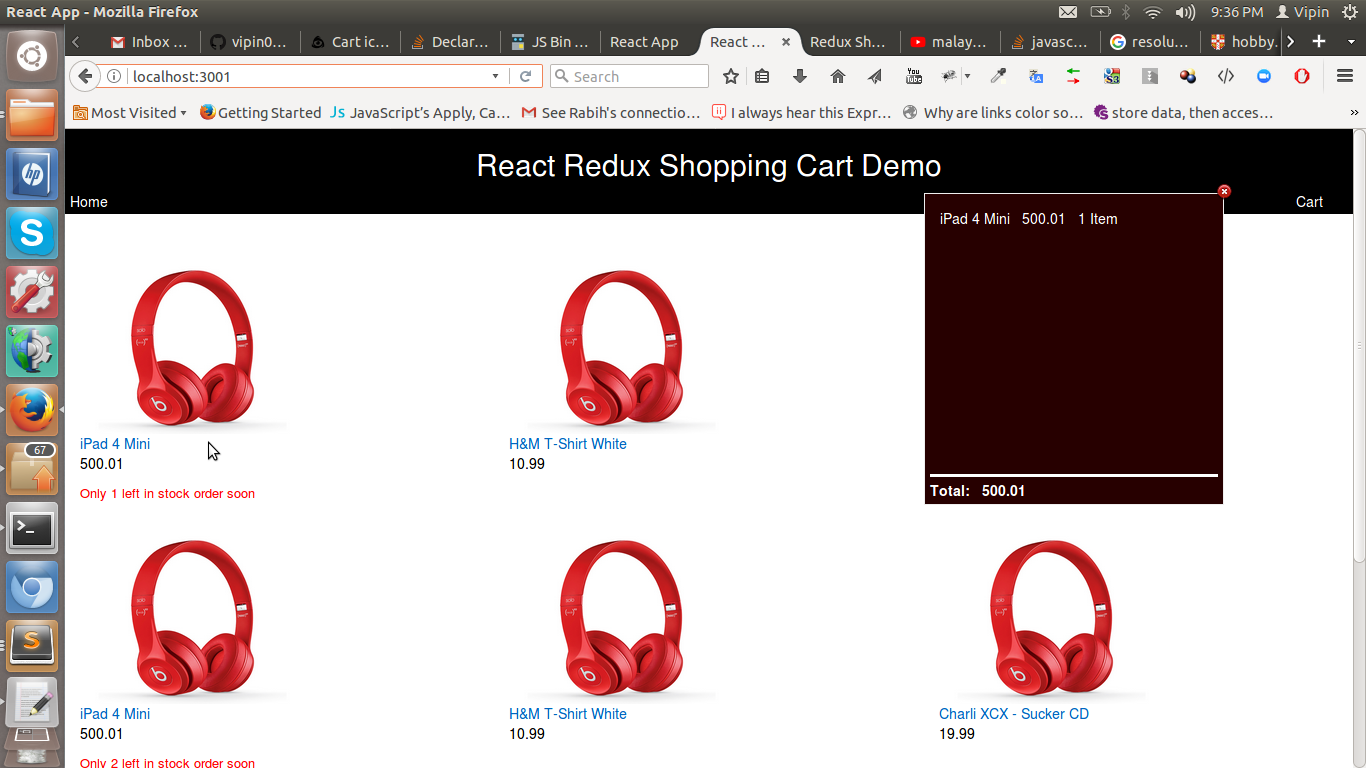
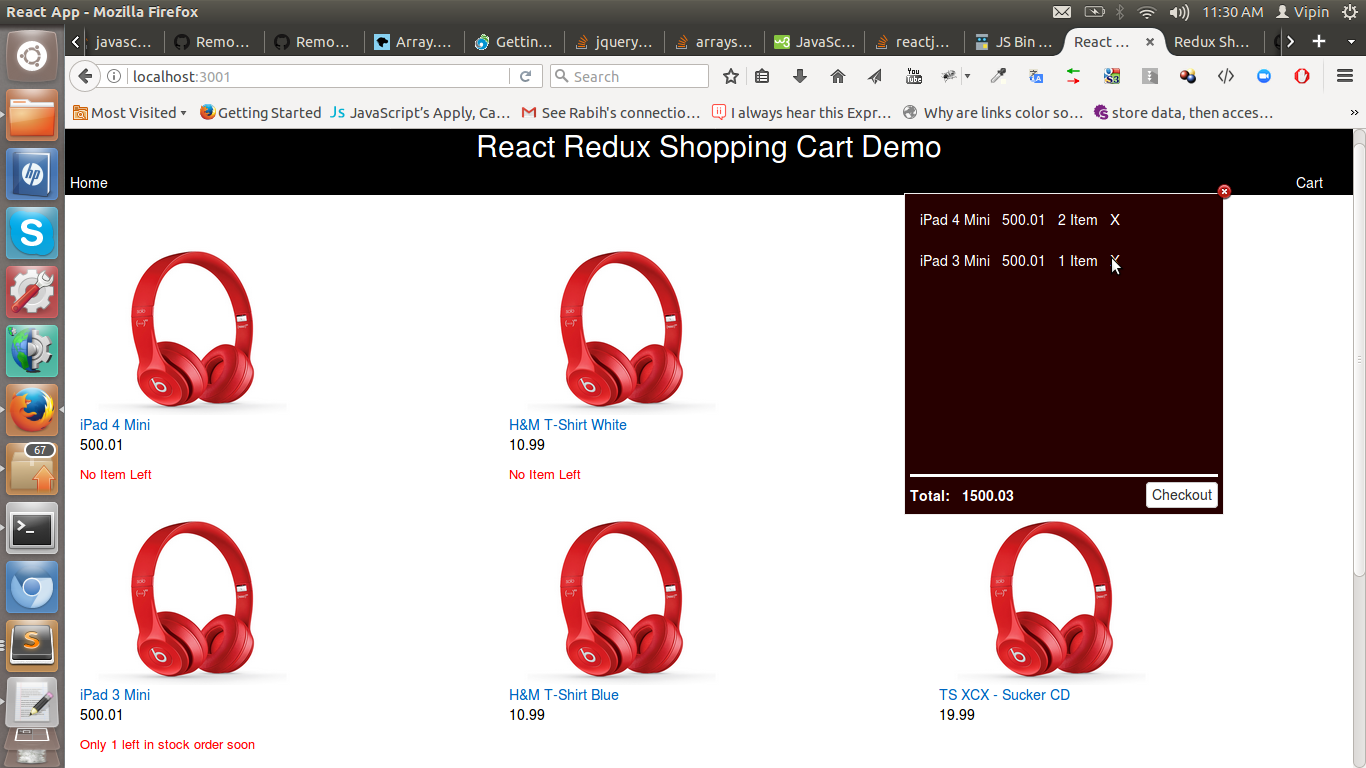
CHANGE: Added checkout button on the cart dialog

diff --git a/src/containers/CartContainer.js b/src/containers/CartContainer.js
@@ -3,13 +3,13 @@ import { connect } from 'react-redux';
 import { withRouter } from "react-router-dom";
 
 import { getCartDetails, getCartPrice } from '../reducers';
-import { closeCart, removeFromCart } from '../action';
+import { closeCart, removeFromCart, checkout } from '../action';
 import Cart from '../components/Cart';
 
-const CartContainer = ({ cart, total, dialogBoxStatus, closeCart, removeFromCart }) => (
+const CartContainer = ({ cart, total, dialogBoxStatus, closeCart, removeFromCart, checkout }) => (
 	<div>
 	<Cart props={cart} total={total} isDialogOpen={dialogBoxStatus} close={()=>closeCart()} 
-	removeFromCart={removeFromCart}/>
+	removeFromCart={removeFromCart} onCheckout={()=>checkout(cart)}/>
 	</div>
 )
 
@@ -19,4 +19,4 @@ const mapStateToProps = (state) => ({
 	dialogBoxStatus: state.cart.dialogBoxStatus
 })
 
-export default connect(mapStateToProps, { closeCart, removeFromCart })(CartContainer)
+export default connect(mapStateToProps, { closeCart, removeFromCart, checkout })(CartContainer)

diff --git a/src/components/Cart.js b/src/components/Cart.js
@@ -1,6 +1,6 @@
 import React from 'react';
 
-const Cart = ({props, total, isDialogOpen, close, removeFromCart}) => {
+const Cart = ({props, total, isDialogOpen, close, removeFromCart, onCheckout}) => {
 	//const 
 	const data = props.length > 0 ? (	
 		<div>
@@ -12,7 +12,13 @@ const Cart = ({props, total, isDialogOpen, close, removeFromCart}) => {
 		))
 		}
 		</div>
-		<div className="cart-total">Total: &nbsp; {total}{isDialogOpen}</div>
+		<div className="cart-footer">
+		<div className="cart-total"> 
+		Total: &nbsp; {total}{isDialogOpen}
+		</div>
+		<div className="cart-checkout">
+		&nbsp;&nbsp;<button className="btn btn-default checkout-btn" onClick={onCheckout}>Checkout</button></div>
+		</div>
 		</div>): (<div>Your cart is empty</div>)
 	
 		return (

diff --git a/src/App.css b/src/App.css
@@ -92,9 +92,9 @@
 /**End here ***/
 
 .cart{
-  width:300px;
+  width:320px;
   padding:5px;
-  height: 312px;
+  height: 322px;
   background:#270000;
   color:#fff;
   position:fixed;
@@ -113,15 +113,29 @@
   overflow-y:auto;
 }
 
-.cart-total{
+.cart-footer{
   font-weight:bold;
   border-top:solid;
   padding-top: 5px;
 }
 
+.cart-total{
+  float:left;
+  margin-top:5px;
+}
+
+.cart-checkout{
+  float:right;
+  margin-left:10px;
+}
+
 .cart-item-remove{
   cursor:pointer;
   font-size: 15px;
+}
+
+.checkout-btn{
+  padding: 2px 5px;
 }
 
 .close-icon{

diff --git a/src/action/index.js b/src/action/index.js
@@ -13,7 +13,6 @@ export const fetchAllProducts = () => dispatch =>{
 }
 
 export const selectProduct = product => {
-	console.log("tset");
 	return {
 		type: 'GET_PRODUCT_BY_ID',
 		payload:product
@@ -48,9 +47,15 @@ export const closeCart = () => {
 }
 
 export const openCart = () => {
-	console.log("testing....")
 	return {
 		type: 'OPEN_DIALOG',
 		payload:true
 	}
+}
+
+export const checkout = (products) => (dispatch)=> {
+	dispatch({type: 'CHECKOUT_REQUEST'});
+	api.buyProduct(products, () => {
+			console.log("Success");
+	})
 }

diff --git a/src/api/api.js b/src/api/api.js
@@ -3,5 +3,6 @@ import _product from './products.json';
 const TIMEOUT = 100;
 
 export default {
-	getProduct: (callback, timeout) => setTimeout(()=>callback(_product),timeout || TIMEOUT)
+	getProduct: (callback, timeout) => setTimeout(()=>callback(_product),timeout || TIMEOUT),
+	buyProduct: (products, callback, timeout) => setTimeout(()=>callback(),timeout || TIMEOUT)
 }

diff --git a/src/components/ProductDetails.js b/src/components/ProductDetails.js
@@ -10,7 +10,7 @@ const ProductDetails = ({props, addToCart}) => (
 	<br/>
 	Price: {props.price}
 	<br/><br/><br/>
-	<button onClick={addToCart} disabled={props.inventory>0 ? false : true}>Add to Cart</button>
+	<button className="btn btn-default" onClick={addToCart} disabled={props.inventory>0 ? '' : 'disabled'}>Add to Cart</button>
 	</div>
 	</div>
 )
